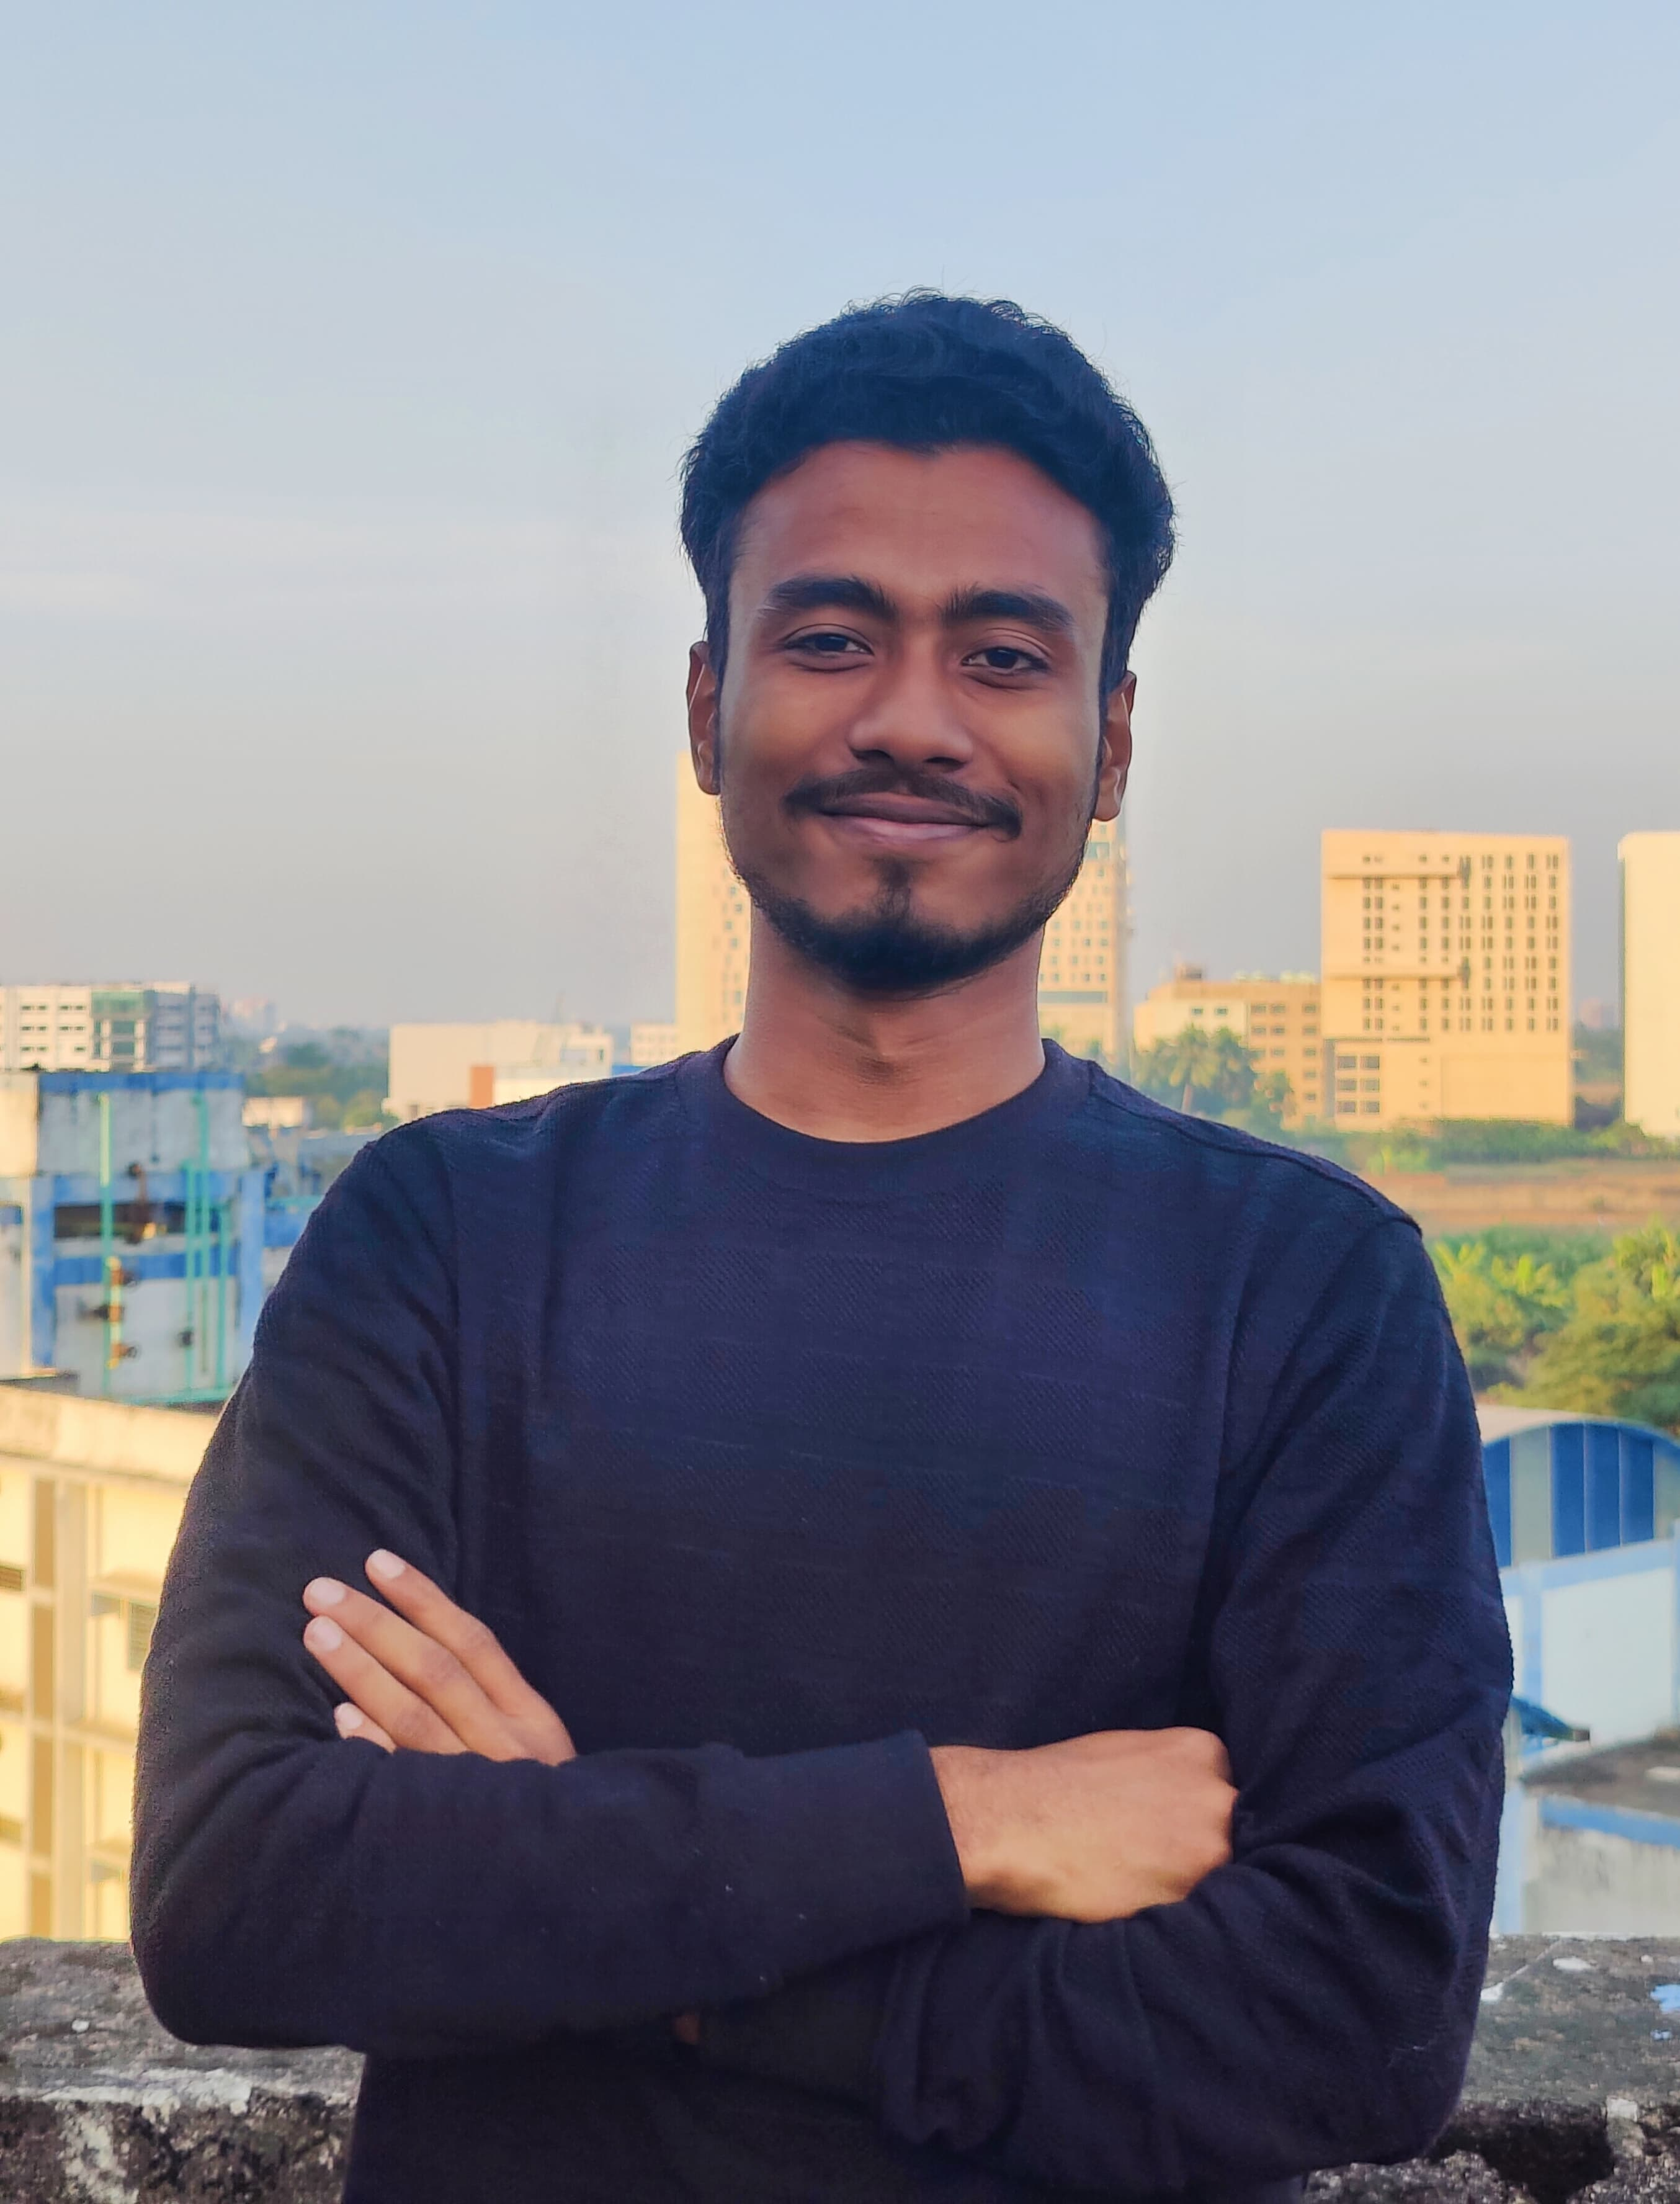
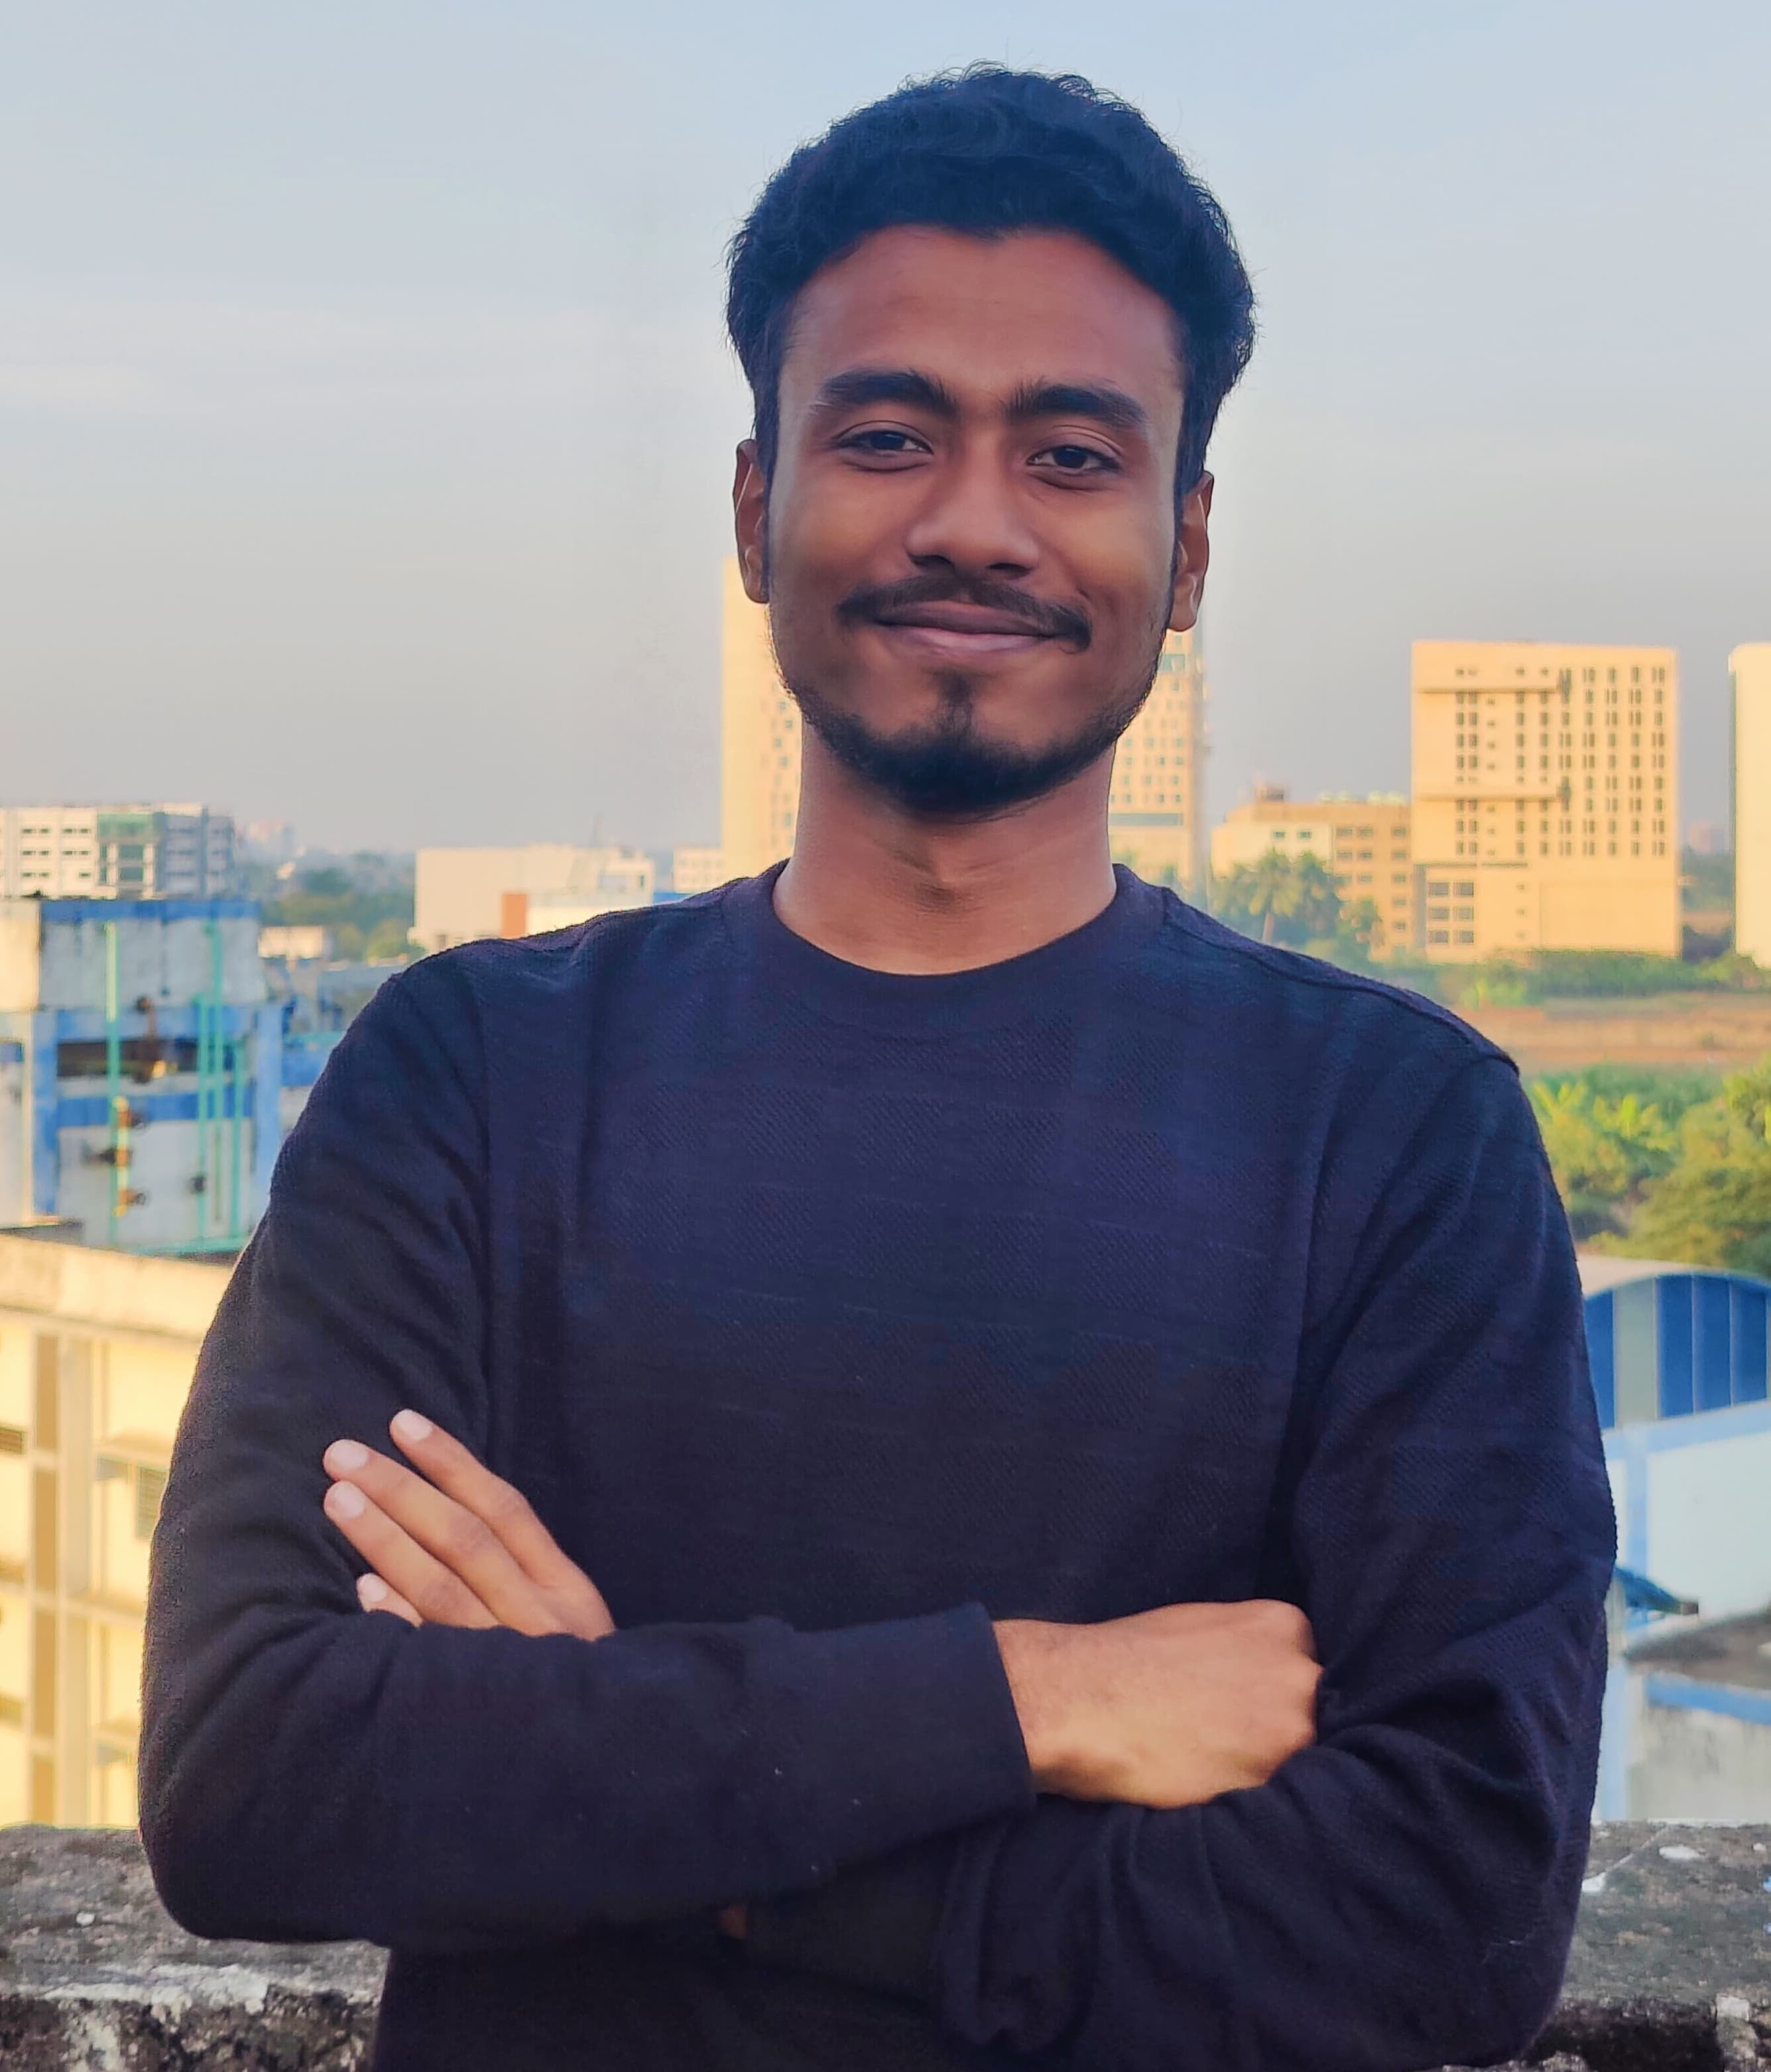
update

Changed region(s): [[0.0, 0.031, 1.0, 1.0], [0.435, 0.745, 0.8079, 0.8691], [0.7769, 0.5898, 0.8079, 0.6208]]

diff --git a/app/components/Home/Team/Team.tsx b/app/components/Home/Team/Team.tsx
@@ -95,7 +95,7 @@ const Teams = [
     },
     {
         name:"Bikram Shit",
-        picture:"", 
+        picture:"/assets/team/volunteer/Bikram.JPG", 
         designation:"Tech Head"
     },
   
@@ -105,7 +105,7 @@ const Teams = [
         designation:"Team Lead"
     },
     {
-        name:"Narmajit Saha",
+        name:"Namrajit Saha",
         picture:"/assets/team/volunteer/Narmajit.jpg", 
         designation:"Team Lead"
     },
@@ -113,6 +113,11 @@ const Teams = [
         name:"Mohd Sajid Siddiqui",
         picture:"/assets/team/volunteer/Sajid.jpeg", 
         designation:"Team Lead"
+    },
+    {
+        name:"Sayani Banarjee",
+        picture:"/assets/team/volunteer/Sayani.jpeg", 
+        designation:"Member"
     },
     {
         name:"Sk Kutub Uddin",
@@ -124,17 +129,13 @@ const Teams = [
         picture:"/assets/team/volunteer/Aadil.jpeg", 
         designation:"Member"
     },
+    
+    
     {
         name:"Kazi Ashique Ahmed",
         picture:"/assets/team/volunteer/Ashique.jpeg", 
         designation:"Member"
     },
-    {
-        name:"Sayani Banarjee",
-        picture:"", 
-        designation:"Member"
-    },
-    
     {
         name:"Sefat Jahan",
         picture:"/assets/team/volunteer/Sefat.jpg", 
@@ -147,6 +148,11 @@ const Teams = [
     },
     {
         name:"Md Shaif Ali",
+        picture:"", 
+        designation:"Member"
+    },
+    {
+        name:"Md Ahshan Ahmad",
         picture:"", 
         designation:"Member"
     },
@@ -177,7 +183,7 @@ const Teams = [
     },
     {
         name:"SK Sohel Islam",
-        picture:"", 
+        picture:"/assets/team/volunteer/Sohel.jpeg", 
         designation:"Member"
     },
     {
@@ -191,7 +197,44 @@ const Teams = [
         picture:"/assets/team/volunteer/Wajid.jpeg", 
         designation:"Member"
     },
-    
+    {
+        name:"Romana Hayat",
+        picture:"", 
+        designation:"Member" 
+    },
+    {
+        name:"Musarrat Jahan",
+        picture:"", 
+        designation:"Member" 
+    }
+    ,
+    {
+        name:"Rameez Reza",
+        picture:"", 
+        designation:"Member" 
+    }
+    ,
+    {
+        name:"Arsalan Sabbir",
+        picture:"", 
+        designation:"Member" 
+    }
+    ,
+    {
+        name:"Shilpa Pan",
+        picture:"", 
+        designation:"Member" 
+    },
+    {
+        name:"Badruddoja",
+        picture:"", 
+        designation:"Member" 
+    },
+    {
+        name:"Aabir",
+        picture:"", 
+        designation:"Member" 
+    }
    
 ]
 

diff --git a/app/(pages)/register/page.tsx b/app/(pages)/register/page.tsx
@@ -157,7 +157,7 @@ function Register() {
         </div>
 
         <div className="text-center text-[1.3rem] md:text-[1.6rem] font-semibold mt-2 text-[#2aa1f5] font-merriweather">
-          Abstract Applicaiton Form
+          Abstract Application Form
         </div>
 
         <div className="px-4 md:px-[3rem] py-8">

diff --git a/app/components/Home/EventSchedule/EventSchedule.tsx b/app/components/Home/EventSchedule/EventSchedule.tsx
@@ -9,7 +9,7 @@ function EventSchedule() {
         <div className='flex items-center justify-center flex-col'>
         <div className='text-[1.2rem] md:text-[2rem] font-semibold text-[#2bd3cd] mb-4'><span className=''>EVENT</span> SCHEDULE</div>
         {/* <div className='text-[1.3rem] font-semibold '><span className='logo_font text-yellow-500'>AURA</span> - 2025</div> */}
-        <Image src={"/assets/RoadMap.png"} alt='' height={100} width={100} className='w-full h-full rounded-lg' unoptimized />
+        <Image src={"/assets/RoadMap.jpg"} alt='' height={100} width={100} className='w-full h-full rounded-lg' unoptimized />
           {/* <Image src={"https://res.cloudinary.com/dhtlzxed4/image/upload/v1733676245/cct14sojqcpjexc5aus3.jpg"} alt='' height={100} width={100} unoptimized className='w-full h-auto' /> */}
         </div>
 